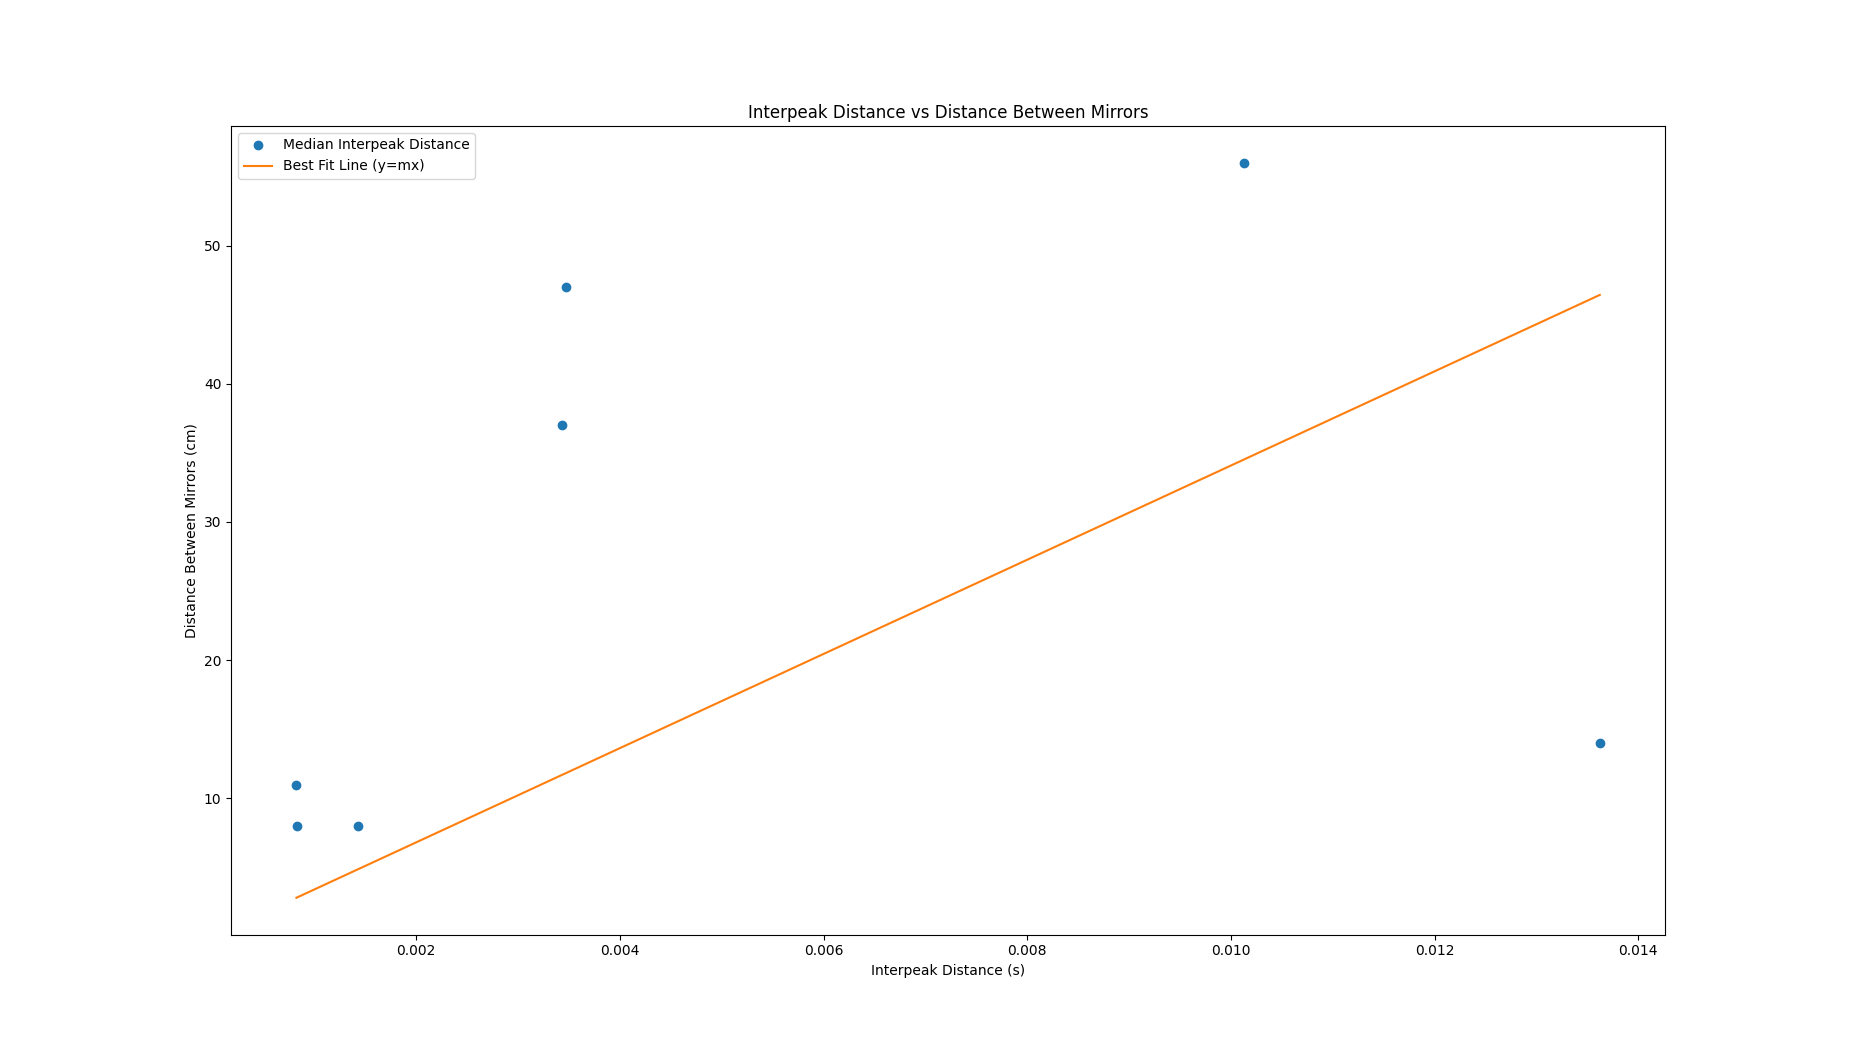
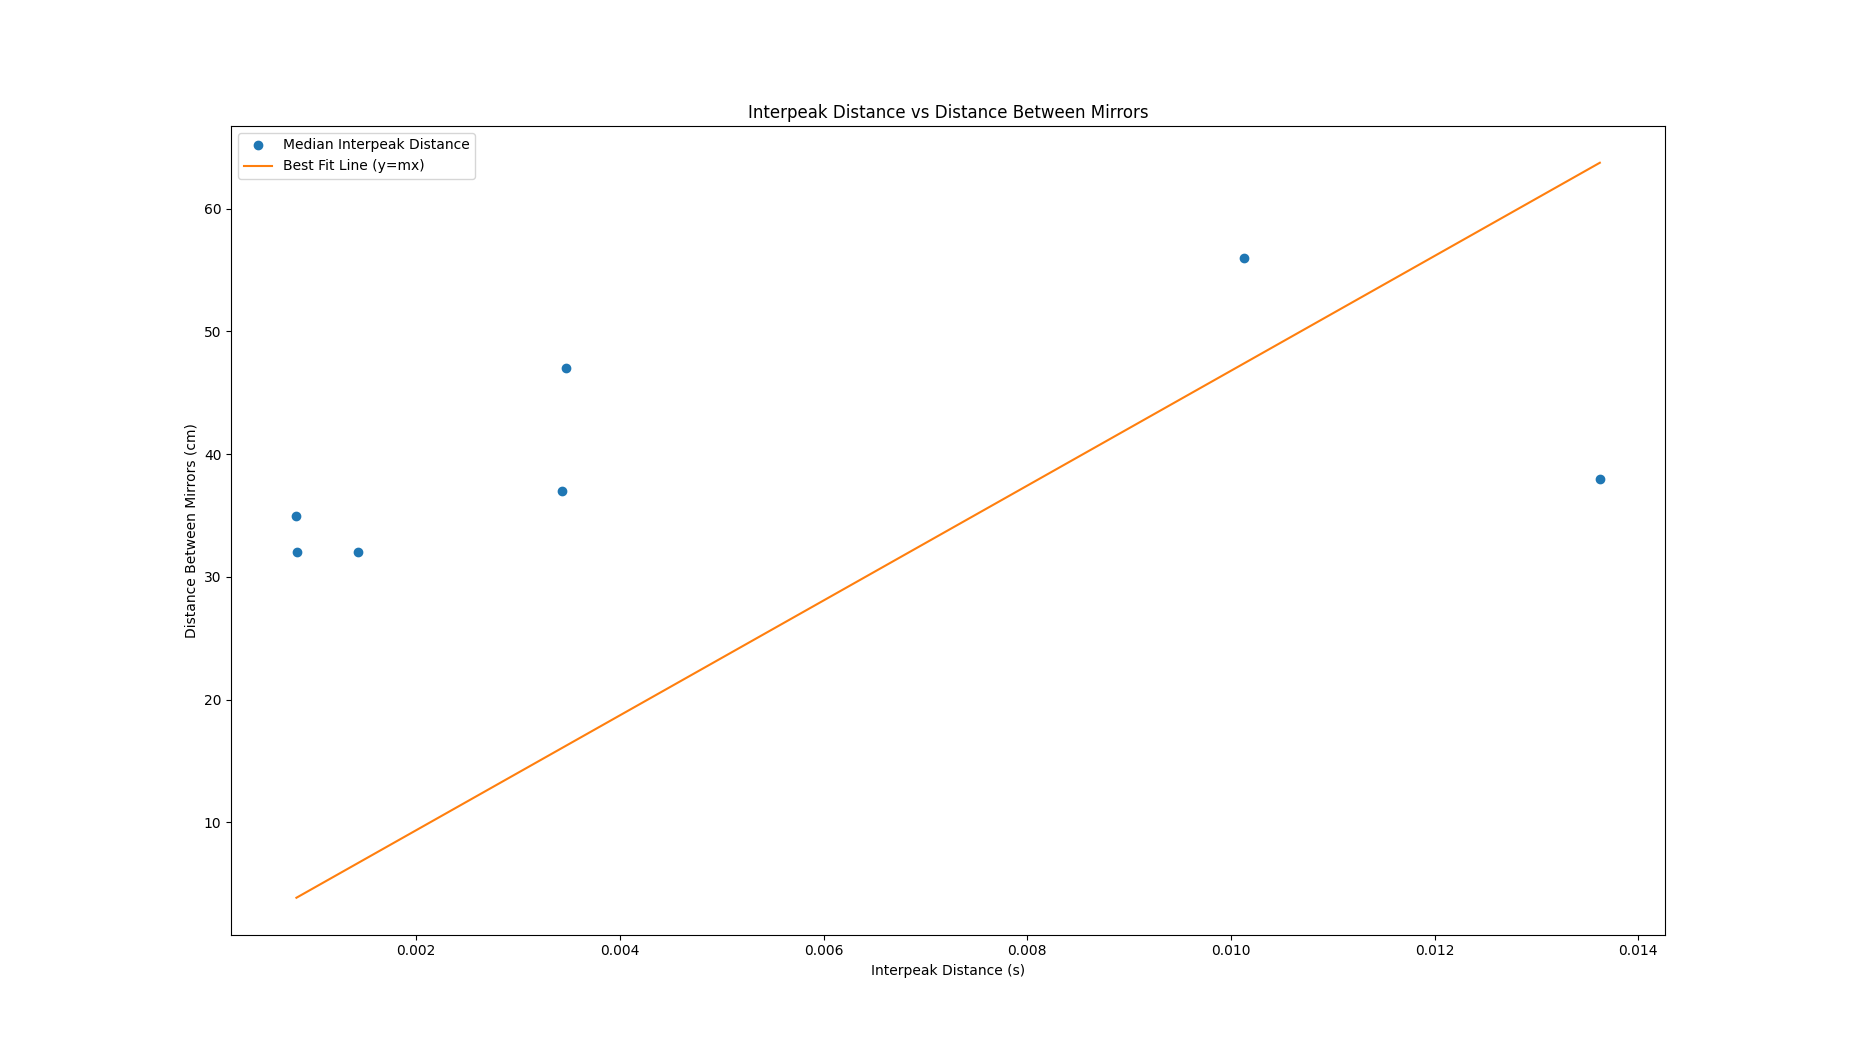
Fixed methodology inconsistency issue

diff --git a/plot_gaps.py b/plot_gaps.py
@@ -15,7 +15,7 @@ def linfun(x, a):
 
 if __name__ == "__main__":
     filenames = ["8cm_1", "8cm_2", "11cm_1", "14cm_1", "37cm", "47cm", "56cm"]
-    d = [8, 8, 11, 14, 37, 47, 56]
+    d = [32, 32, 35, 38, 37, 47, 56]
     dt = []
 
     for filename in filenames:
